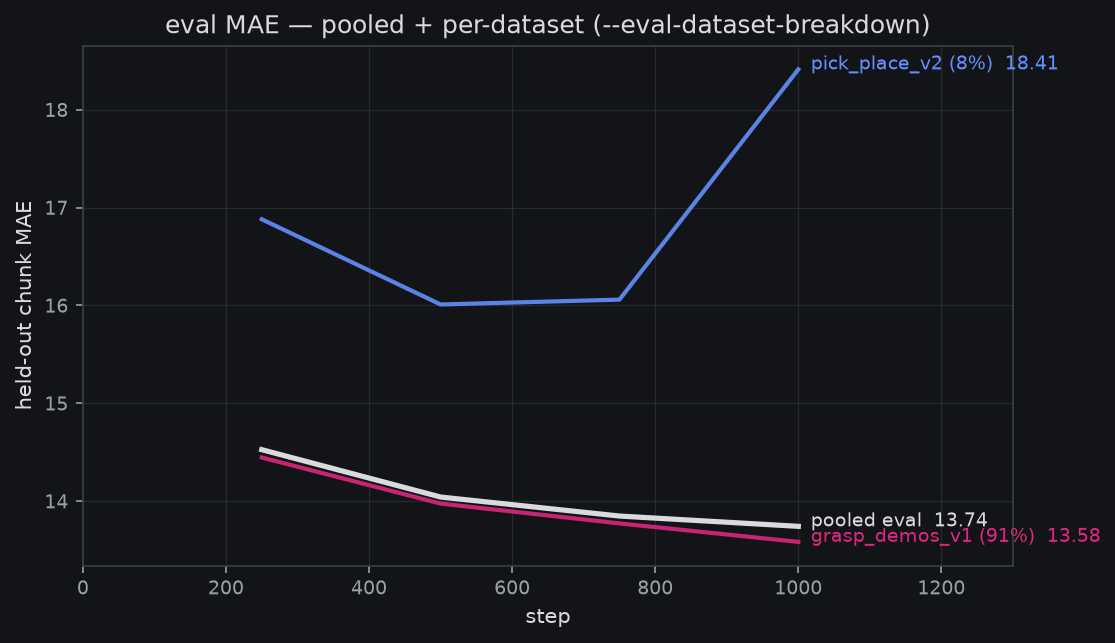
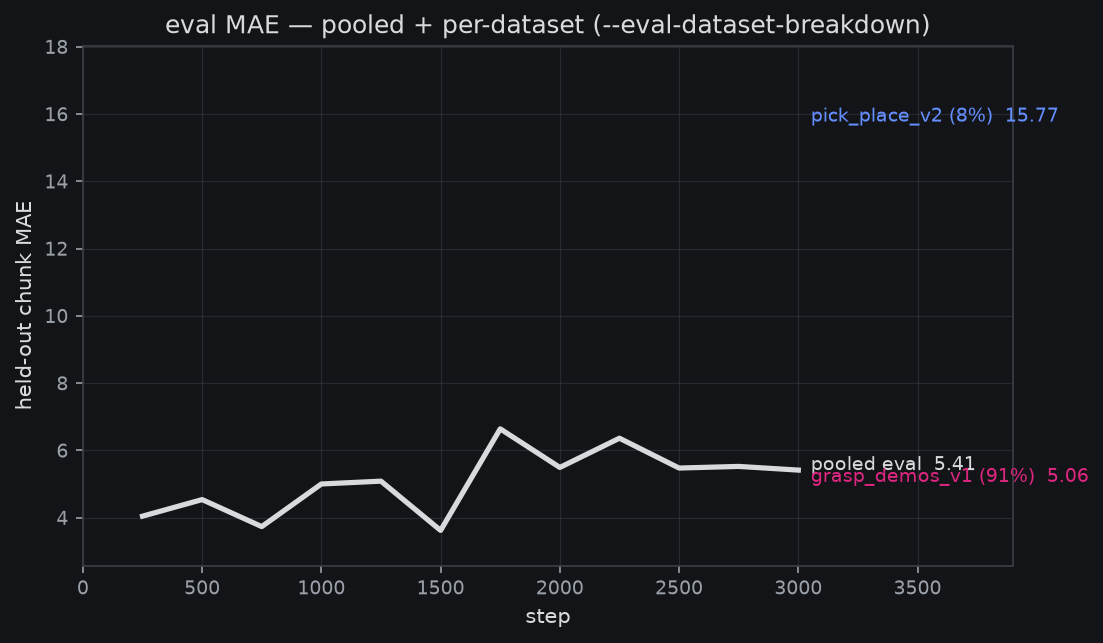
close prep: now.md head entry + footer (run 2 complete, boundary in tail), babysit registry pruned with no_live_runs_reason, archive roll

diff --git a/fontaine/blog/src/posts/2026-08-16-grasp-sft-v1-results.md b/fontaine/blog/src/posts/2026-08-16-grasp-sft-v1-results.md
@@ -1,67 +1,96 @@
 # Grasp-SFT v1: the 5,000-demo joint run — endpoint results
 
-*2026-08-16, drafted ~20:0xZ during the run's ride, finalized ⟨FINALIZE:
-close stamp⟩. Run: `grasp_sft_v1_joint_8xa100` (owner GO 17:07:47Z on
-the 16:39Z consolidated command, eff-96 delta; ASAP 17:29Z), 3000 steps
-on the 8×A100 box, launched 18:21:14Z after a 12-minute
-crash-fix-relaunch cycle (`2d6a2b3`). Anchors: the route-C joint probe
-checkpoint — trained on ~10× fewer demos — scored
+*2026-08-16→17. Run 2 of the recipe: `grasp_sft_v1_joint_8xa100`
+RESTARTED with `--recompute-stats` on the owner's 20:51Z order
+(launched 21:14:48Z 08-16, unit `grasp-sft-v1c`), complete 01:07Z
+08-17 at step 3000. Run 1b — same command on the remap-only release
+table — was killed at step ~1900 by the same order after its real-data
+eval slice rose monotonically (16.0→18.4) while sim fell: the remapped
+table leaves wrist_roll/wrist_flex saturating away from ground truth,
+so per-channel normalization was recomputed from the corpus itself
+(receipt: wrist_roll ±65.6/43.5 → ±157.2, wrist_flex 4.9/93.4 →
+−52.4/95.0, lift lows −96.1 → −124.8, descending orientation
+preserved). Anchors: the route-C joint probe checkpoint — trained on
+~10× fewer demos — scored
 [44/100 unseen (flow)](2026-08-16-amendment-grasp-sft-route-c-joint.md)
 and the token-head competence bar is ≥20/100.*
 
-**Plain words.** Yesterday we generated 5,000 fresh demonstrations of
-the pick-and-place task with our scripted expert (about 16× more than
-the 313 the previous model learned from) and published them as a public
-dataset. This page records the first model trained on that full corpus:
-a "joint" fine-tune, meaning the same network simultaneously learns two
-different ways of producing actions — a fast continuous head (flow) and
-a token-by-token head that speaks the base model's discrete action
-language. The previous, smaller run of this recipe completed the task
-44 times out of 100 on scenarios it had never seen. The question this
-run answers: does 16× more demonstration data move that number?
+**Plain words.** Two days ago we generated 5,000 fresh demonstrations
+of the pick-and-place task with our scripted expert (about 16× more
+than the 313 the previous model learned from). This page records the
+model trained on that full corpus: a "joint" fine-tune, meaning the
+same network simultaneously learns two ways of producing actions — a
+fast continuous head (flow) and a token-by-token head that speaks the
+base model's discrete action language. The first attempt at this run
+was stopped two-thirds through and restarted when we found the model
+was, in effect, reading mis-calibrated instruments: the table that
+normalizes joint angles clipped two wrist joints well short of their
+real range, and the real-robot slice of the eval was getting *worse*
+as training went on. The restart recomputed that table from the data
+itself. The question the run answers: does 16× more demonstration
+data move the 44/100 success rate of the smaller-data model?
 ⟨FINALIZE: one-sentence answer⟩
 
 ## The run
 
 - **Recipe** (route C, the only measured joint config): `bijou.train
-  --objective joint --joint-ce-weight 1.0 --insulate-flow`, init from
-  the owner's re-converted `molmoact2-so101-released` (remap-stats
-  v21-to-v30), image-augment 0.8, eff. batch 96 (12×8 ranks),
-  activation checkpointing + ZeRO-1, 3000 steps, eval every 250 with
-  `--eval-dataset-breakdown`, async save every 500.
+  --objective joint --joint-ce-weight 1.0 --insulate-flow
+  --recompute-stats`, init from the owner's re-converted
+  `molmoact2-so101-released`, image-augment 0.8, eff. batch 96 (12×8
+  ranks), activation checkpointing + ZeRO-1, 3000 steps, eval every
+  250 with `--eval-dataset-breakdown`, async save every 500. Same
+  seed as run 1 (registered comparability policy).
 - **Data**: 3 datasets, 4,551 train episodes / 1.49M frames
   ([grasp_demos_v1](https://huggingface.co/datasets/mcobzarenco/fontaine-grasp-demos-v1)
   ~91% + `pick_place_v2` ×4 repeat 7.9% + `pick_place_clean` ×4 repeat
   0.8%), 506 episodes held out.
-- **Incident**: launch 1 (17:49:48Z) died at its *first eval* — the
+- **History**: launch 1a (17:49Z 08-16) died at its *first eval* — the
   ported `molmo_flow` decoder returns CPU actions and the joint family
-  is the first to route the in-train eval through it. One-line fix
-  (`2d6a2b3`, score on the eval device), relaunch 18:21:14Z, ~2.5 GPU-h
-  lost. The relaunch passed the eval that killed launch 1, first try.
-- **Cost**: ⟨FINALIZE: GPU-h⟩ vs the 40 GPU-h babysit gate; 3.9 s/step
-  steady, VRAM ~64.5 GiB/rank, zero tracebacks.
-- Curves: [wandb `grasp_sft_v1_joint_8xa100`](https://wandb.ai/aristotle1337/fontaine).
+  is the first to route the in-train eval through it; one-line fix
+  (`2d6a2b3`), relaunch 18:21Z. Run 1b then trained to ~1900 before
+  the owner-ordered kill above (~17.5 GPU-h spent; saves archived as
+  `_run1_remaponly`). Run 2 = `main` merge `3a12c86`
+  (`--recompute-stats`) + 20-step smoke with per-joint receipt before
+  relaunch.
+- **Cost**: run 2 **~31 GPU-h** (21:14:48Z→01:07:43Z wall on 8×A100,
+  eval pauses included) vs the 40 GPU-h babysit gate; ~3.9 s/step
+  steady, VRAM ~64.5 GiB/rank, zero tracebacks end to end.
+- Curves: [wandb `grasp_sft_v1_joint_8xa100` run `cgo3by9j`](https://wandb.ai/aristotle1337/fontaine).
 
 ## Training curves
 
 ![component losses](../img/grasp_sft_v1/loss_curves.png)
 
 Both heads learn without fighting: the flow MSE (insulated from the CE
-gradient) and the action-token CE fall together. ⟨FINALIZE: final loss
-sentence⟩
+gradient) and the action-token CE fall together; windowed loss ended
+at 0.32–0.34 and grad norms stayed ~1.6 throughout. (Absolute MAE
+below is NOT comparable to run 1's curve — the recomputed table
+rescales the metric; per-dataset *trends* are the comparison.)
 
 ![eval MAE, pooled + per-dataset](../img/grasp_sft_v1/eval_mae.png)
 
-Held-out chunk MAE ⟨FINALIZE: monotone? final value vs 14.53 at
-250⟩. The per-dataset breakdown (`--eval-dataset-breakdown`, landed
-`d642f7b`) splits the pooled number: the grasp corpus dominates
-(~91% of eval frames) and tracks the pooled curve; `pick_place_v2` —
-real-robot episodes, 8% share — reads noisier off a ~20-frame slice of
-the 256-sample probe. ⟨FINALIZE: table + what the split says⟩
+Held-out chunk MAE was **not monotone — it oscillated all run**: 4.05
+@250 → 4.54 → 3.74 → 5.00 → 5.09 → **3.62 @1500** (best) → **6.64
+@1750** (worst) → 5.49 → 6.36 → 5.48 → 5.52 → **5.41 @3000**. Most of
+the drop happened by step 250; after that the curve swung in a
+widening band with train_mae tracking eval at every point (no
+train/eval divergence on the pooled read — the swing is the model
+moving, not the probe).
 
 | dataset | eval MAE @3000 | train MAE @3000 |
 |---|---|---|
-| ⟨FINALIZE⟩ | | |
+| grasp_demos_v1 (sim, 91%) | 5.06 | 4.99 |
+| pick_place_v2 (real, 8%) | **15.77** | **8.15** |
+| pick_place_clean (real, 1%) | — (no eval slice) | 5.33 |
+
+The split is the story: the sim slice sits tight (train≈eval≈5), but
+the real-robot slice shows a **2× train/eval gap** — the model fits
+the real *training* frames (8.15) and does not generalize to held-out
+real episodes (15.77, vs 10.0 at step 250). At an 8% mix share, more
+sim demos did not buy real-data generalization; run 1b's coverage
+diagnosis (kill signature: v2 rising monotone) became, under the
+corrected table, a *flat-to-bouncy* v2 slice that never improved past
+its step-250 reading.
 
 ## The competence read: sim100 vs the probe anchors
 
@@ -69,7 +98,7 @@ the 256-sample probe. ⟨FINALIZE: table + what the split says⟩
 
 Protocol identical to the route-C probe legs (euler-10 flow on unseen
 seeds 0–99; `--serve-head ar` greedy for the token head), sharded 4×25
-across the box's idle GPUs — exact, because every rollout stochastic
+across the box's GPUs — exact, because every rollout stochastic
 stream is keyed by the (seed, replan, draw) triple, invariant to batch
 composition.
 
@@ -77,16 +106,16 @@ composition.
   (and base 9, corrupt-table 28).
 - **Token, unseen**: ⟨FINALIZE⟩/100 vs the R2 competence bar ≥20/100.
 
-⟨FINALIZE: verdict paragraph — did 16× data move the needle; kept-split
-if informative⟩
+⟨FINALIZE: verdict paragraph — did 16× data move the needle⟩
 
 ## Artifacts
 
 - Checkpoint (weights-only, standing rule):
   [`grasp_sft_v1_joint_step3000`](https://huggingface.co/mcobzarenco/fontaine-checkpoints/tree/main/grasp_sft_v1_joint_step3000)
+  (byte-verified against the box post-upload)
 - Banked reads: `reports/analysis__grasp_sft_v1_endpoint.json`,
   regenerable via `fontaine/scripts/grasp_sft_v1_endpoint_report.py`
-- ⟨FINALIZE: HTML eval report link if rendered⟩
+- ⟨FINALIZE: HTML eval report link⟩
 
 ## What's next
 

diff --git a/fontaine/blog/src/now.md b/fontaine/blog/src/now.md
@@ -1,6 +1,67 @@
 # Now
 
+
 *Older entries: see the [now archive](archive/index.md) — one dated page per day, verbatim.*
+
+*Updated 2026-08-16 22:43 → 08-17 02:4xZ (real `date -u` at first
+write: 01:56) — work session: **run 2 COMPLETE at step 3000 (01:07Z,
+~31/40 GPU-h, zero tracebacks) — endpoint banked to the Hub, sim100
+sharded on the box; three owner steering threads executed live (wrist
+refit prioritized + stages 1–3 first pass DONE on local, pipeline
+order queued: 5k regen → SFT v2); `outputs/` audit freed 434 GB.***
+
+**Status**: `grasp_sft_v1_joint_8xa100` run 2 **COMPLETE** 01:07:43Z
+at 3000/3000 (~31 GPU-h wall×8 vs the 40 gate; final eval 5.41,
+train 5.27). Checkpoint **banked + byte-verified**:
+`fontaine-checkpoints/grasp_sft_v1_joint_step3000` (weights-only +
+train_log). Eval curve oscillated all run: 4.05 → 4.54 → 3.74 → 5.00
+→ 5.09 → **3.62 @1500** → **6.64 @1750** → 5.49 → 6.36 → 5.48 → 5.52
+→ 5.41 @3000; per-dataset @3000: sim 5.06/4.99 (eval/train), **real
+v2 15.77/8.15 — a 2× train/eval gap on real data** (the boundary
+caveat, sharper than run-1b's rise). sim100 (flow+token, 4×25 exact
+shards) LIVE on the box under unit `sft-v1-sim100`, ~10/25 seeds per
+shard at 01:53Z, ETA ~02:2xZ — verdict vs the 44/100 flow anchor +
+≥20 token bar lands in this session's tail or the next tick. Local
+GPU idle after refit renders.
+
+**Steering** (3 threads, all replied + acked, inbox clear): (1)
+23:06Z wrist-cam status ask → full status reply; (2) 23:56Z
+**"prioritise this work, use the local machine"** → refit stages 1–3
+first pass executed same-session (below); (3) 00:45Z **pipeline
+order**: after the run, regen 5k demos with all improvements + wrist
+angle "definitely" in the new demos, then SFT v2 same hyperparameters;
+sim100s on local going forward → queued `grasp-demos-v2-regen` +
+`grasp-sft-v2-joint-run` (sequenced behind the refit), flagged that
+this sim100 was already mid-flight on the box (finishes faster there,
+box idle after for the regen).
+
+**Done** (commits `bba830b`…`ee7f789` + close, checks green): (a)
+**`outputs/` audit + prune 486 → 52 GB** (owner cleanup thread
+closed: GRPO full-state .pts with Hub-verified weights-only endpoints,
+measurement-run step dirs, optimizer.pt + intermediates of banked
+runs; disk 239 → 673 GB free, report in-channel); (b) **wrist-cam
+refit stages 1–3 first pass**: matched-pairs instrument
+(`wrist_cam_matched_pairs.py`, 312 pairs replaying rig-v2 states into
+the sim at identical kinematics, composite posted) + measurements
+(per-pair jaw-angle discrepancy 63° mean, sim bottom-band occupancy
+0.050 vs real 0.115) + rotation-only grid fit **measured insufficient**
+(held-out 7.56 → 7.41; degenerate jaw-hiding first winner fixed by a
+dominating visibility penalty) — registered next: position offsets +
+glare-robust angle metric; (c) run 2 ridden end-to-end with trend
+posts at 1000/1250-1500/1750; (d) boundary executed: final eval +
+per-dataset table, Hub upload verified, sim100 launched (2 unit
+relaunches — systemd-run cwd defaults to $HOME, cd/abs-path fix),
+results page rewritten for run 2 (sim100 numbers pending); (e) queue
++2 owner-pipeline items, wrist refit item updated with stage-1 done.
+
+**Next**: `queue_cli.py next` → finish the boundary (merge shards →
+reads → sim100 verdict into the page + HTML report + consolidated
+post) as soon as the shards land; then `wrist-cam-pose-refit`
+(position-offset fit, leads next work session, on the regen's
+critical path) → `grasp-demos-v2-regen` (pre-reg first) →
+`grasp-sft-v2-joint-run`. `run_work_next` re-armed at close.
+Owner-pending unchanged: disk composite exemption 👍, approach
+redesign go, v2.1 bands, ckpt-format, morning-veto items.*
 
 *Updated 2026-08-16 22:37–22:4xZ (real `date -u` at stamp: 22:42) —
 tick: **run 2 alive and clean at step 1010/3000 (8×100%, loss falling
@@ -108,35 +169,18 @@ Next work session: `wrist-cam-pose-refit`. Owner-pending unchanged:
 disk composite exemption 👍, approach redesign go, v2.1 bands,
 ckpt-format, morning-veto items.
 
-*Updated 2026-08-16 19:12–19:2xZ (real `date -u` at stamp: 19:19) —
-tick: **SFT healthy through eval-750 — MAE monotone 14.53 → 14.04 →
-13.85, all 8 GPUs 78–100%, zero tracebacks; no steering; work
-session stays chained for the endpoint boundary.***
-
-**Status**: `grasp_sft_v1_joint_8xa100` LIVE (unit `grasp-sft-v1b`),
-step 770+/3000 at 19:18Z, window 13.4 steps/min (≈3.9 s/step incl.
-eval pauses), VRAM steady ~64.5 GiB/rank, cumulative projection 7.6
-vs the 40 GPU-h babysit gate, 0 tracebacks. Evals monotone:
-14.53@250 → 14.04@500 → **13.85@750** (train_mae 13.97). Tick held
-open through the eval-750 boundary before closing (charter §6). ETA
-unchanged ~21:4x–22:0xZ. Local GPU idle (owner-released).
-
-**Steering**: none — read + inbox empty, no new reactions on the
-last 5 posts (v1.1 sample videos unreacted so far; disk `realcal`
-exemption still awaits the owner's 👍).
-
-**Done**: routine babysit tick — two babysit polls (19:13, 19:18)
-bracketing eval-750, remote-log eval read, queue validate (depth 1
-with recorded reason, 20 open), body + footer roll to
-archive/now-2026-08-16.md.
-
-**Next**: `run_work_next` stays ARMED (armed 19:03 by the work
-session close; box busy + `grasp-sft-v1-endpoint-boundary` queued
-for run completion ~21:4x–22:0xZ). Owner-pending unchanged: disk
-composite exemption 👍, v2.1 bands, ckpt-format, morning-veto
-items.*
-
 ## Utilization footer
+
+Session 2026-08-16 22:43 → 08-17 02:4xZ (work, exploit; box: run-2
+ride 22:43→01:07 complete ≈ +19.2 GPU-h in-window (run-2 total ~31/40
+gate) + sim100 sharded eval ≈ +4–5 GPU-h to its ~02:2x end; local
+~0.2 GPU-h refit renders/fit): **run 2 COMPLETE + endpoint banked
+(final eval 5.41, real-v2 2× train/eval gap the headline caveat),
+sim100 verdict in the tail or next tick; owner pipeline queued (5k
+regen with fitted wrist pose → SFT v2 same hparams); wrist refit
+stages 1–3 first pass on local (312 matched pairs, defect measured,
+rotation-only fit an honest negative); outputs/ prune freed 434 GB**
+— queue depth 4, inbox clear, `run_work_next` re-armed.
 
 Session 2026-08-16 22:37–22:4xZ (tick; box run-2 riding ≈ +0.9
 GPU-h during the window, local idle): **run 2 clean at 1010/3000

diff --git a/fontaine/blog/src/archive/now-2026-08-16.md b/fontaine/blog/src/archive/now-2026-08-16.md
@@ -198,6 +198,34 @@ Queue depth 1 queued — stated reason: gpu-local items
 `blocked`/owner_hold under the pause; the queued CPU item's slices
 are owner-gated. `run_work_next` DISARMED.*
 
+*Previous update 2026-08-16 19:12–19:2xZ (real `date -u` at stamp: 19:19) —
+tick: **SFT healthy through eval-750 — MAE monotone 14.53 → 14.04 →
+13.85, all 8 GPUs 78–100%, zero tracebacks; no steering; work
+session stays chained for the endpoint boundary.***
+
+**Status**: `grasp_sft_v1_joint_8xa100` LIVE (unit `grasp-sft-v1b`),
+step 770+/3000 at 19:18Z, window 13.4 steps/min (≈3.9 s/step incl.
+eval pauses), VRAM steady ~64.5 GiB/rank, cumulative projection 7.6
+vs the 40 GPU-h babysit gate, 0 tracebacks. Evals monotone:
+14.53@250 → 14.04@500 → **13.85@750** (train_mae 13.97). Tick held
+open through the eval-750 boundary before closing (charter §6). ETA
+unchanged ~21:4x–22:0xZ. Local GPU idle (owner-released).
+
+**Steering**: none — read + inbox empty, no new reactions on the
+last 5 posts (v1.1 sample videos unreacted so far; disk `realcal`
+exemption still awaits the owner's 👍).
+
+**Done**: routine babysit tick — two babysit polls (19:13, 19:18)
+bracketing eval-750, remote-log eval read, queue validate (depth 1
+with recorded reason, 20 open), body + footer roll to
+archive/now-2026-08-16.md.
+
+**Next**: `run_work_next` stays ARMED (armed 19:03 by the work
+session close; box busy + `grasp-sft-v1-endpoint-boundary` queued
+for run completion ~21:4x–22:0xZ). Owner-pending unchanged: disk
+composite exemption 👍, v2.1 bands, ckpt-format, morning-veto
+items.*
+
 *Previous update 2026-08-16 16:46–16:5xZ (real `date -u` at stamp: 16:48) —
 tick: **all quiet — box clean-idle post-dataset-ship, owner 👍 on the
 two-items post recorded, queue git-audit closed the landed
